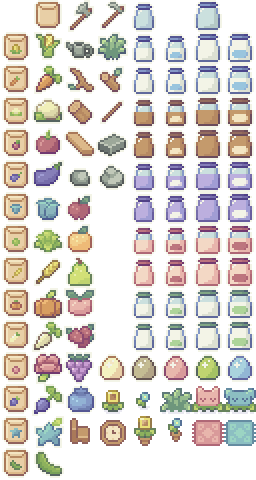
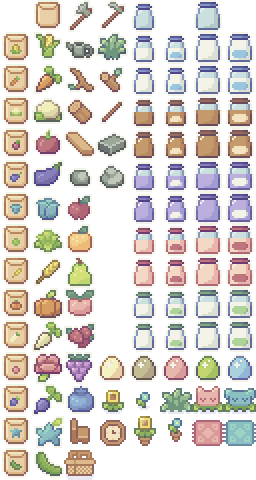
add new crafting recipes

Changed region(s): [[0.25, 0.9375, 0.375, 1.0]]

diff --git a/utils/crafting.go b/utils/crafting.go
@@ -24,7 +24,10 @@ type Material struct {
 }
 
 var (
-	Recipes       = [10]int{ItemAxe, ItemHoe, ItemWateringCan}
+	Recipes = [10]int{
+		ItemAxe, ItemHoe, ItemWateringCan, ItemBasket, ItemChair,
+		ItemClock, ItemPottedSunflower, ItemPottedBlueflower, ItemPinkRug, ItemBlueRug,
+	}
 	RecipeDetails = map[int][]Material{
 		ItemAxe: {
 			{ID: ItemWood2, Count: 1},
@@ -36,6 +39,32 @@ var (
 		},
 		ItemWateringCan: {
 			{ID: ItemRock1, Count: 3},
+		},
+		ItemBasket: {
+			{ID: ItemWeed, Count: 3},
+		},
+		ItemChair: {
+			{ID: ItemWood2, Count: 5},
+		},
+		ItemClock: {
+			{ID: ItemWood2, Count: 2},
+			{ID: ItemRock1, Count: 2},
+		},
+		ItemPottedSunflower: {
+			{ID: ItemSunflower, Count: 1},
+			{ID: ItemRock1, Count: 1},
+		},
+		ItemPottedBlueflower: {
+			{ID: ItemBlueflower, Count: 1},
+			{ID: ItemRock1, Count: 1},
+		},
+		ItemPinkRug: {
+			{ID: ItemWeed, Count: 3},
+			{ID: ItemPinkDyeFlower, Count: 1},
+		},
+		ItemBlueRug: {
+			{ID: ItemWeed, Count: 3},
+			{ID: ItemBlueDyeFlower, Count: 1},
 		},
 	}
 )

diff --git a/utils/items.go b/utils/items.go
@@ -12,12 +12,13 @@ const (
 	ItemWeed                 = 101
 	ItemPinkDyeFlower        = 102
 	ItemBlueDyeFlower        = 103
-	ItemChairFlower          = 106
-	ItemClockFlower          = 107
+	ItemChair                = 106
+	ItemClock                = 107
 	ItemPottedSunflower      = 108
 	ItemPottedBlueflower     = 109
 	ItemPinkRug              = 110
-	ItemBlueRug              = 110
+	ItemBlueRug              = 111
+	ItemBasket               = 114
 	ItemCraftingTable        = 121
 	ItemDoor                 = 122
 	ItemBedPink              = 123
